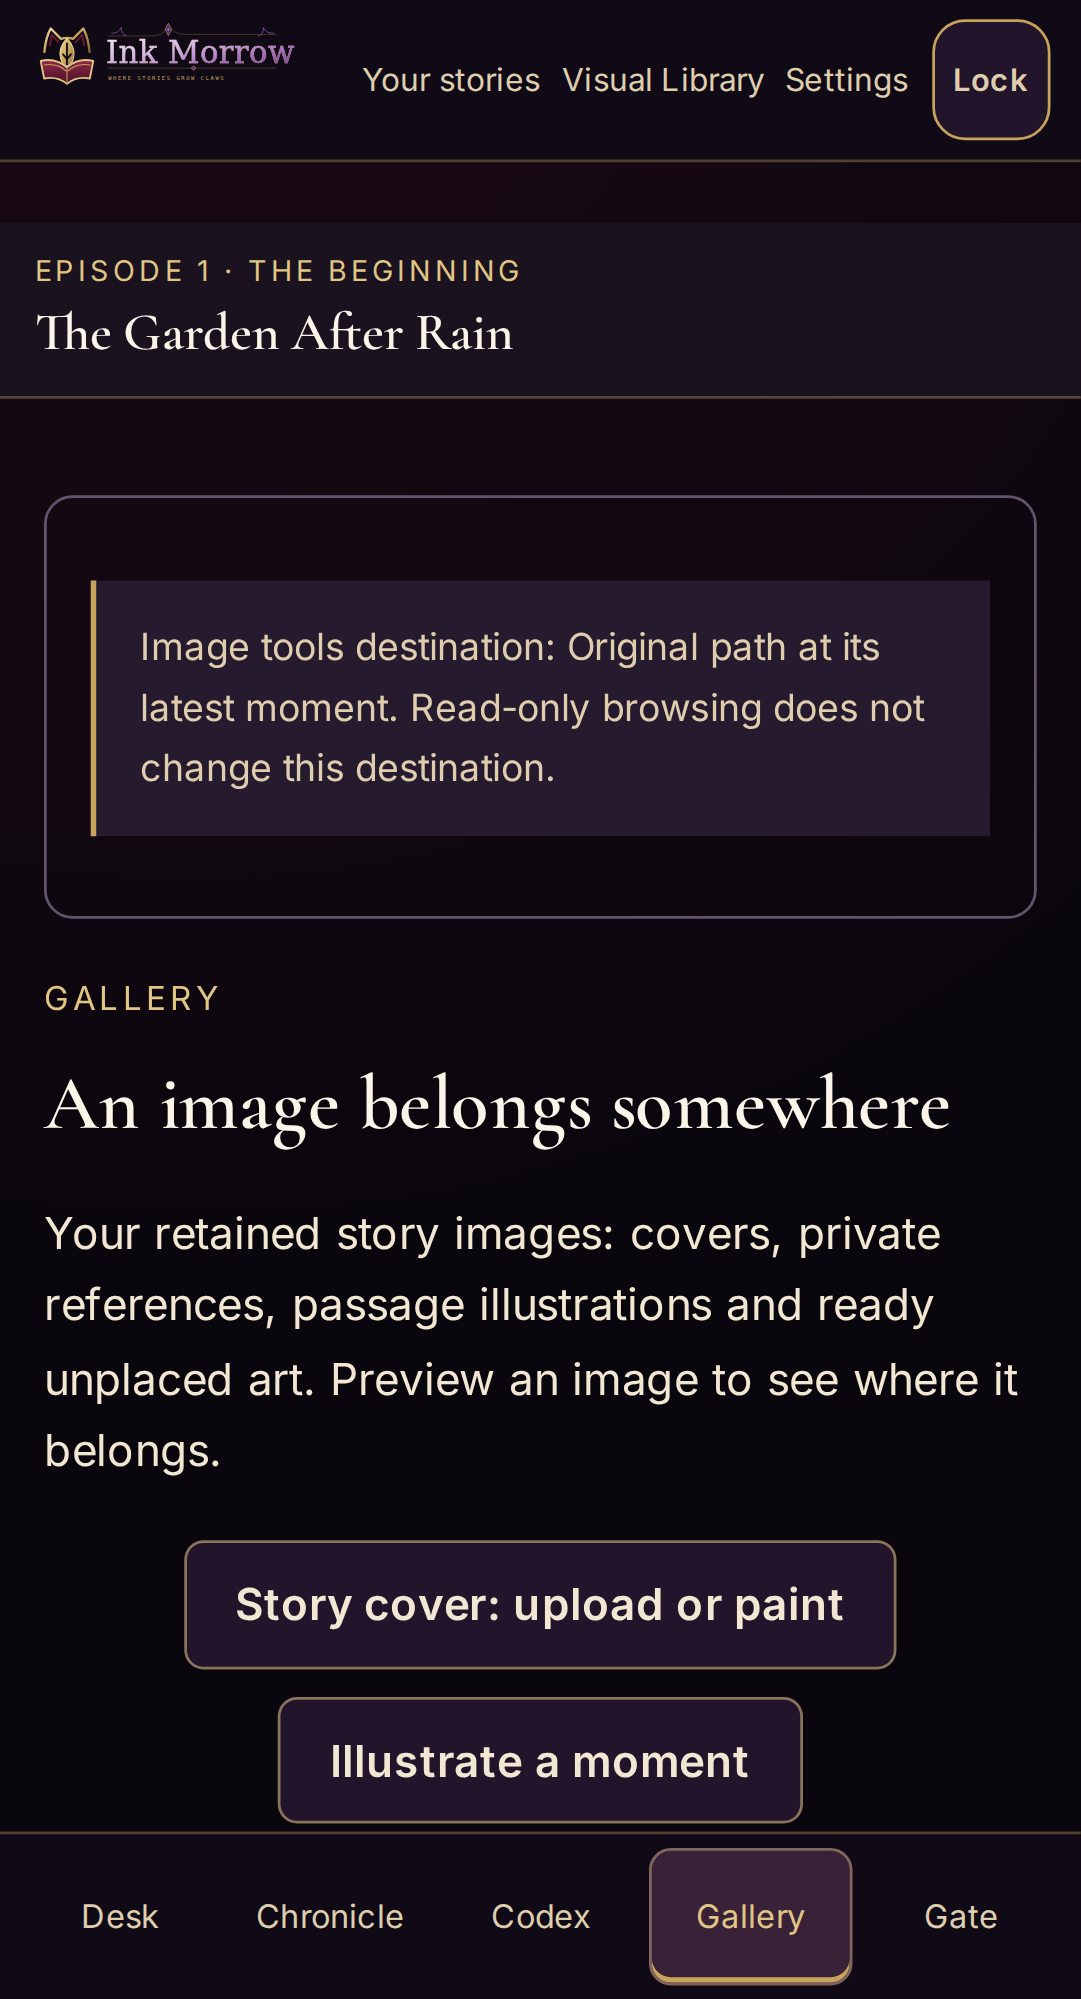
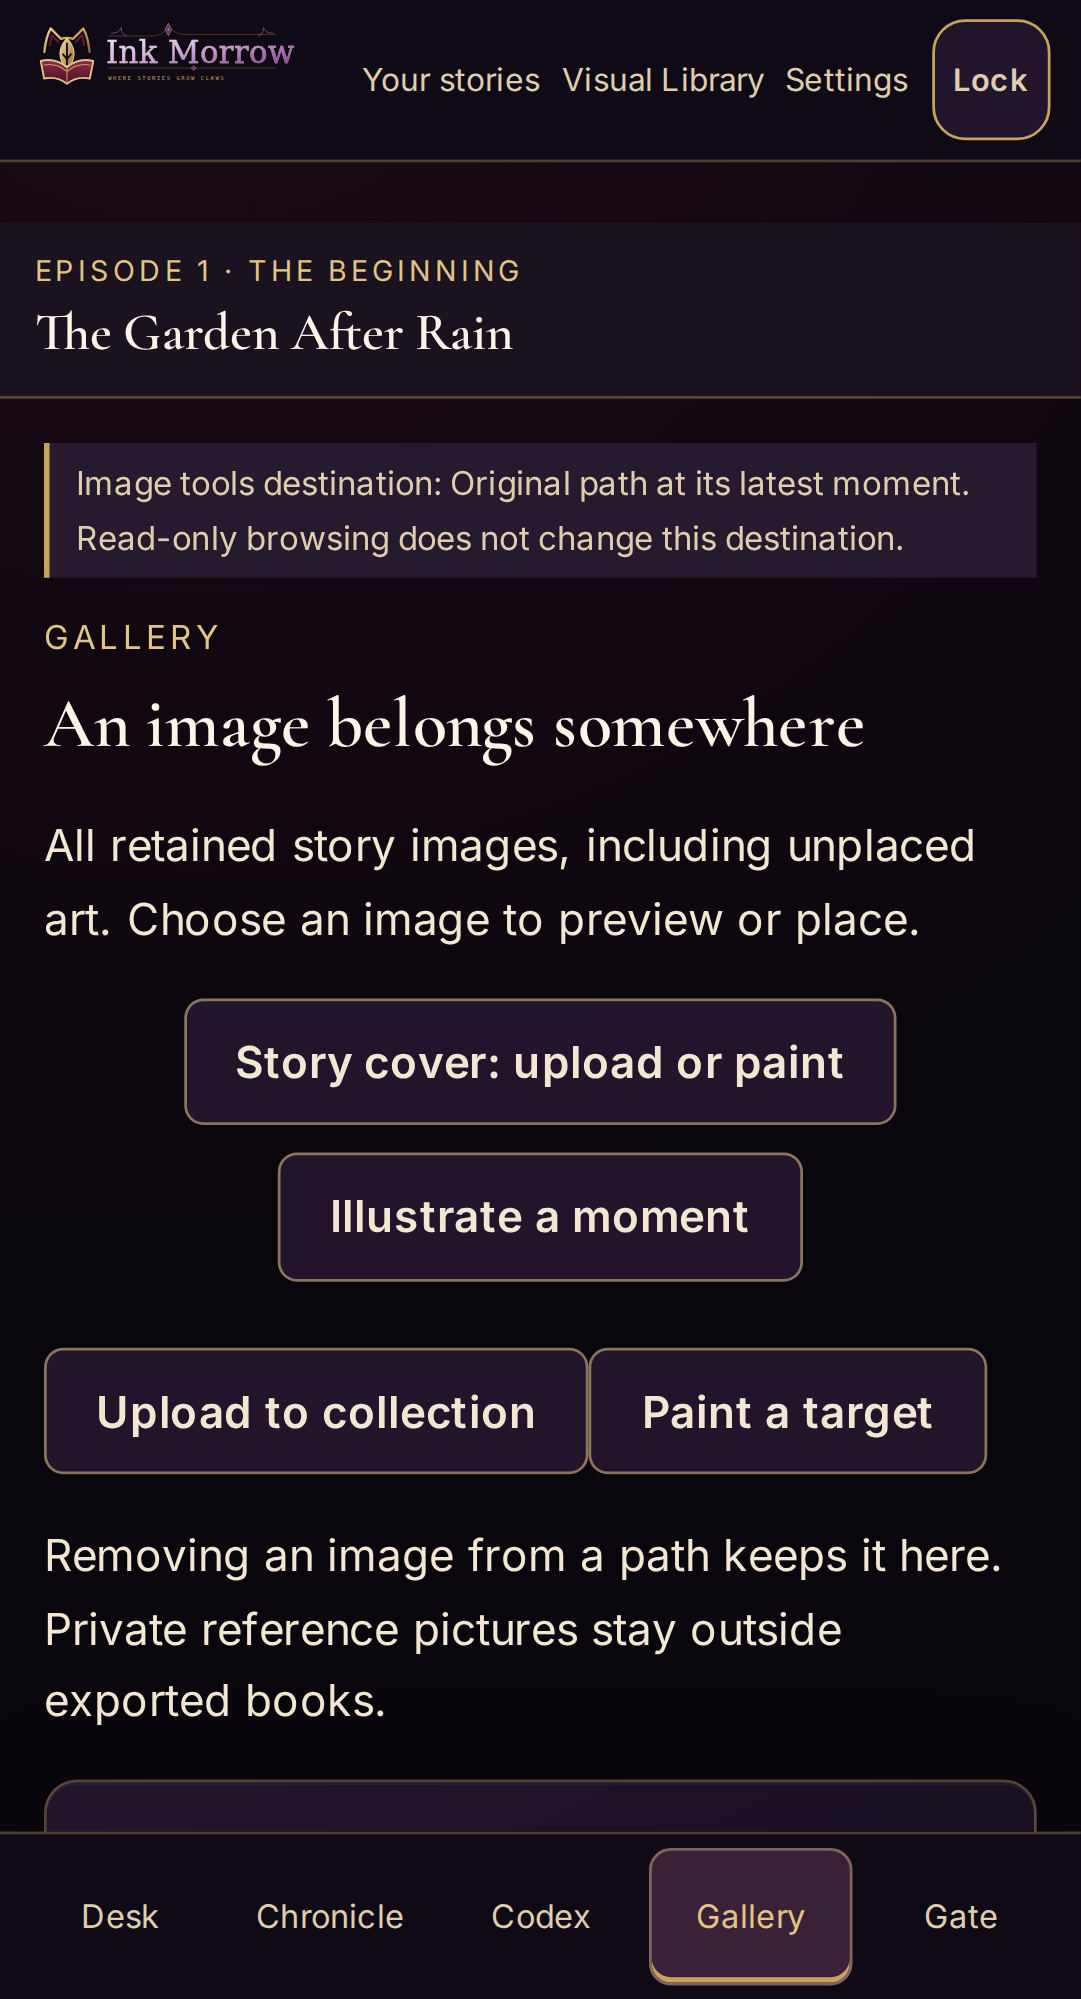
Keep the Gallery collection within easy mobile reach

diff --git a/frontend/index.html b/frontend/index.html
@@ -98,7 +98,7 @@
             <h2>What matters now</h2><div id="fictionFacts"></div><button class="btn btn-secondary" id="fictionCampaign" type="button">Campaign records</button><button class="btn btn-secondary" id="fictionRecall" type="button">Recall older facts</button><button class="btn btn-secondary" id="fictionCorrect" type="button">Correct a story fact</button><button class="btn btn-secondary" id="fictionRetire" type="button">Retire a fact</button>
             <section id="fictionChallengeSection" hidden><h2>Approaches to this situation</h2><p>Optional attempts, not guaranteed outcomes. An unchanged approach reuses its ruling without an AI purchase.</p><div id="fictionChallenges"></div></section>
           </div></aside>
-          <section id="workspaceGallery" class="workspace-room" aria-labelledby="workspaceGalleryTitle" hidden><p class="eyebrow">Gallery</p><h2 id="workspaceGalleryTitle" tabindex="-1">An image belongs somewhere</h2><p>Your retained story images: covers, private references, passage illustrations and ready unplaced art. Preview an image to see where it belongs.</p><div class="fiction-toolbar"><button class="btn btn-secondary" id="fictionCoverEdit" type="button">Story cover: upload or paint</button><button class="btn btn-secondary" id="fictionIllustrate" type="button">Illustrate a moment</button></div><div id="workspaceImages"></div><div id="fictionCover"></div></section>
+          <section id="workspaceGallery" class="workspace-room" aria-labelledby="workspaceGalleryTitle" hidden><p class="eyebrow">Gallery</p><h2 id="workspaceGalleryTitle" tabindex="-1">An image belongs somewhere</h2><p>All retained story images, including unplaced art. Choose an image to preview or place.</p><div class="fiction-toolbar"><button class="btn btn-secondary" id="fictionCoverEdit" type="button">Story cover: upload or paint</button><button class="btn btn-secondary" id="fictionIllustrate" type="button">Illustrate a moment</button></div><div id="workspaceImages"></div><div id="fictionCover"></div></section>
           <section id="workspaceGate" class="workspace-room" aria-labelledby="workspaceGateTitle" hidden><p class="eyebrow">Gate</p><h2 id="workspaceGateTitle" tabindex="-1">Make a work worth keeping</h2><p>A book includes the active reading path. A private save keeps every path and can contain hidden story information.</p><button class="btn btn-primary" id="fictionExportBook" type="button">Export this reading path</button><div id="fictionSaveControls"><h2>Keep your story</h2><p>The server stores story history. Your reading position is remembered on this device. Download a private playable save to preserve all paths, story-owned images and private state; credentials and paid permissions never travel.</p><button class="btn btn-secondary" id="fictionDownloadSave" type="button">Download a playable save</button></div><p id="fictionSpend"></p><details id="fictionCallHistory" hidden><summary>Recent model calls and costs</summary><div id="fictionCalls"></div></details></section>
         </div>
       </section>

diff --git a/frontend/styles/fiction-workspace.css b/frontend/styles/fiction-workspace.css
@@ -150,3 +150,5 @@
 @media (max-width: 720px) { .editorial-fields { grid-template-columns: minmax(0, 1fr); } }
 
 .fiction-image-grid{display:grid;grid-template-columns:repeat(auto-fit,minmax(min(100%,220px),1fr));gap:1rem}.fiction-image-grid img{width:100%;height:200px;object-fit:contain}.gallery-preview{max-width:100%;max-height:50vh;object-fit:contain}
+
+#inspection-gallery-target{padding:0;border:0;background:transparent;margin:0 0 .75rem}#inspection-gallery-target .workspace-scope-note{margin:0;padding:.3rem .6rem;font-size:.75rem}#workspaceGallery>h2{font-size:1.6rem;margin:.25rem 0}#workspaceGallery>.eyebrow{margin:.35rem 0}#workspaceGallery>.fiction-toolbar{margin:.75rem 0}#workspaceGallery #fictionCover img{max-height:220px;object-fit:contain}
